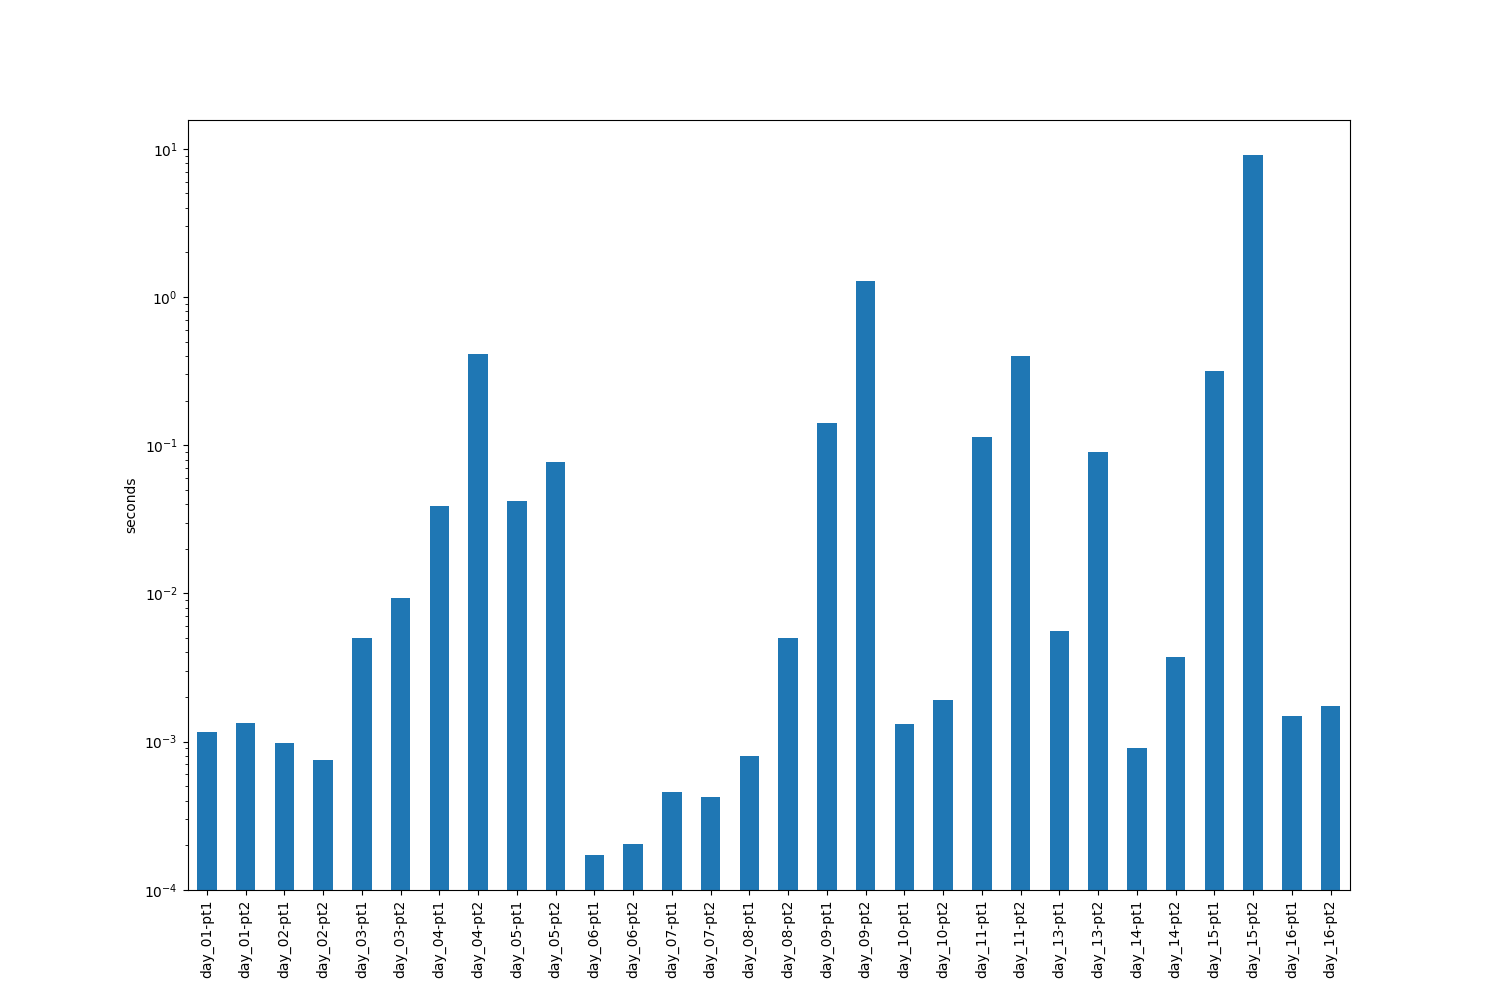
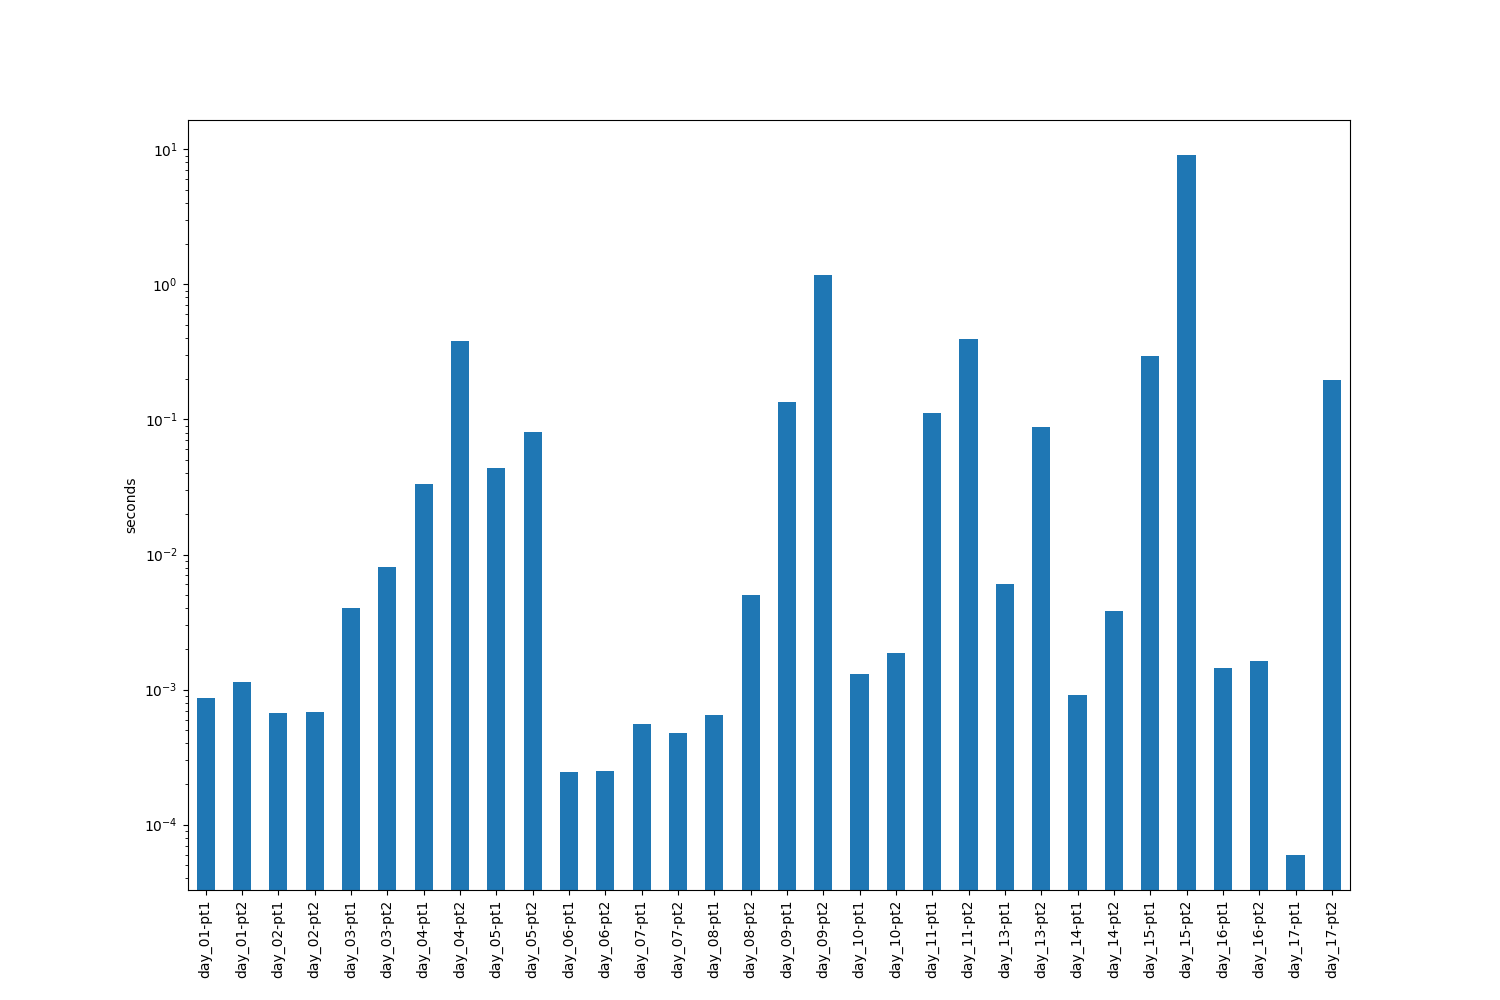
day_17

Changed region(s): [[0.1227, 0.155, 0.92, 0.992], [0.092, 0.279, 0.1227, 0.31]]

diff --git a/aoc/day_17.py b/aoc/day_17.py
@@ -1,0 +1,140 @@
+from typing import List
+
+
+def part_one(file_path: str):
+    """
+    Calculates the highest point during a velocity that
+    goes through the selected range
+
+    Args:
+        file_path (str):
+
+    Returns:
+        int: highest position
+    """
+
+    # read file
+    with open(file_path) as f:
+        lines = f.readlines()
+
+    # read line
+    line = lines[0]
+
+    # get max y bounds
+    line = line[line.index("y=") + 2 :]
+
+    # get ymin and ymax
+    ymin, ymax = [int(x) for x in line.split("..")]
+
+    # because we know ymin and ymax are both negative
+    if ymin < 0:
+        ymin = abs(ymin) - 1
+    if ymax < 0:
+        ymax = abs(ymax) - 1
+
+    # maximum y position is when t = v0
+    return get_y_position(max(ymin, ymax), max(ymin, ymax))
+
+
+def part_two(file_path: str):
+    """
+    gets the number of possible initial velocities with a
+    subsequent trajectory that passes through the range
+
+    Args:
+        file_path (str):
+
+    Returns:
+        int: number of trajectories
+    """
+    # get all initial velocities
+    pairs = get_pairs(file_path)
+
+    return len(pairs)
+
+
+def get_pairs(file_path: str) -> List:
+    """
+    get all possible initial velocities with a
+    subsequent trajectory that passes through the range
+
+    Args:
+        file_path (str):
+
+    Returns:
+        List: list of initial velocities
+    """
+    # read file
+    with open(file_path) as f:
+        lines = f.readlines()
+    # read line
+    line = lines[0]
+    # parse bounds
+    xmin, xmax = [
+        int(x) for x in line[line.index("x=") + 2 : line.index(", ")].split("..")
+    ]
+    ymin, ymax = [int(x) for x in line[line.index("y=") + 2 :].split("..")]
+    # initialise set of pairs
+    pairs = set()
+    # for initial x velocity in the range 1, x max
+    for vx0 in range(1, abs(xmax) + 1):
+        # for initial y velocity in range going up or down
+        for vy0 in range(-abs(ymin) - 1, abs(ymin) + 1):
+            # initialse velocity
+            vx = vx0
+            vy = vy0
+            # initialise position
+            px = 0
+            py = 0
+            # while position is left of xmax and above ymin
+            while px <= xmax and py >= ymin:
+                # move the position
+                px += vx
+                py += vy
+                # adjust velocity
+                vx = max(vx - 1, 0)
+                vy -= 1
+                # if inside range
+                if px in range(xmin, xmax + 1) and py in range(ymin, ymax + 1):
+                    # add to pairs
+                    pairs.add((vx0, vy0))
+                    # break loop
+                    break
+    return list(pairs)
+
+
+def get_x_position(initial_velocity: int, t: int) -> int:
+    """
+    calculate x position for a given initial velocity and time
+
+    Args:
+        initial_velocity (int): intiail x velocity
+        t (int): time
+
+    Returns:
+        int: x position
+    """
+
+    if t > initial_velocity:
+        return (initial_velocity * (initial_velocity + 1)) / 2
+    else:
+        return t * (2 * initial_velocity - (t - 1)) / 2
+
+
+def get_y_position(initial_velocity: int, t: int) -> int:
+    """
+    calculate y position for a given initial velocity and time
+
+    Args:
+        initial_velocity (int): intiail y velocity
+        t (int): time
+
+    Returns:
+        int: x position
+    """
+    return t * (2 * initial_velocity - (t - 1)) / 2
+
+
+if __name__ == "__main__":
+    print(part_one("aoc/inputs/day_17.txt"))
+    print(part_two("aoc/inputs/day_17.txt"))

diff --git a/tests/test_day_17.py b/tests/test_day_17.py
@@ -1,0 +1,58 @@
+from aoc.day_17 import part_one, part_two, get_x_position, get_y_position, get_pairs
+import unittest
+
+
+def test_part_one():
+
+    test_file_path = "tests/test_inputs/test_day_17.txt"
+
+    assert part_one(test_file_path) == 45
+
+
+def test_part_two():
+
+    test_file_path = "tests/test_inputs/test_day_17.txt"
+
+    assert part_two(test_file_path) == 112
+
+
+def test_get_x_position():
+
+    assert get_x_position(3, 1) == 3
+
+    assert get_x_position(5, 2) == 9
+
+    assert get_x_position(6, 10) == 21
+
+
+def test_get_y_position():
+
+    assert get_y_position(3, 1) == 3
+
+    assert get_y_position(5, 2) == 9
+
+    assert get_y_position(3, 9) == -9
+
+
+def test_get_pairs():
+
+    test_file_path_pairs = "tests/test_inputs/test_day_17_pairs.txt"
+
+    test_file_path = "tests/test_inputs/test_day_17.txt"
+
+    with open(test_file_path_pairs) as f:
+        lines = f.readlines()
+
+    expected_pairs = []
+    for line in lines:
+
+        for pair in line.strip().split():
+            expected_pairs.append(tuple([int(x.strip()) for x in pair.split(",")]))
+
+    pairs = get_pairs(test_file_path)
+
+    case = unittest.TestCase()
+
+    case.maxDiff = None
+
+    case.assertCountEqual(pairs, expected_pairs)
